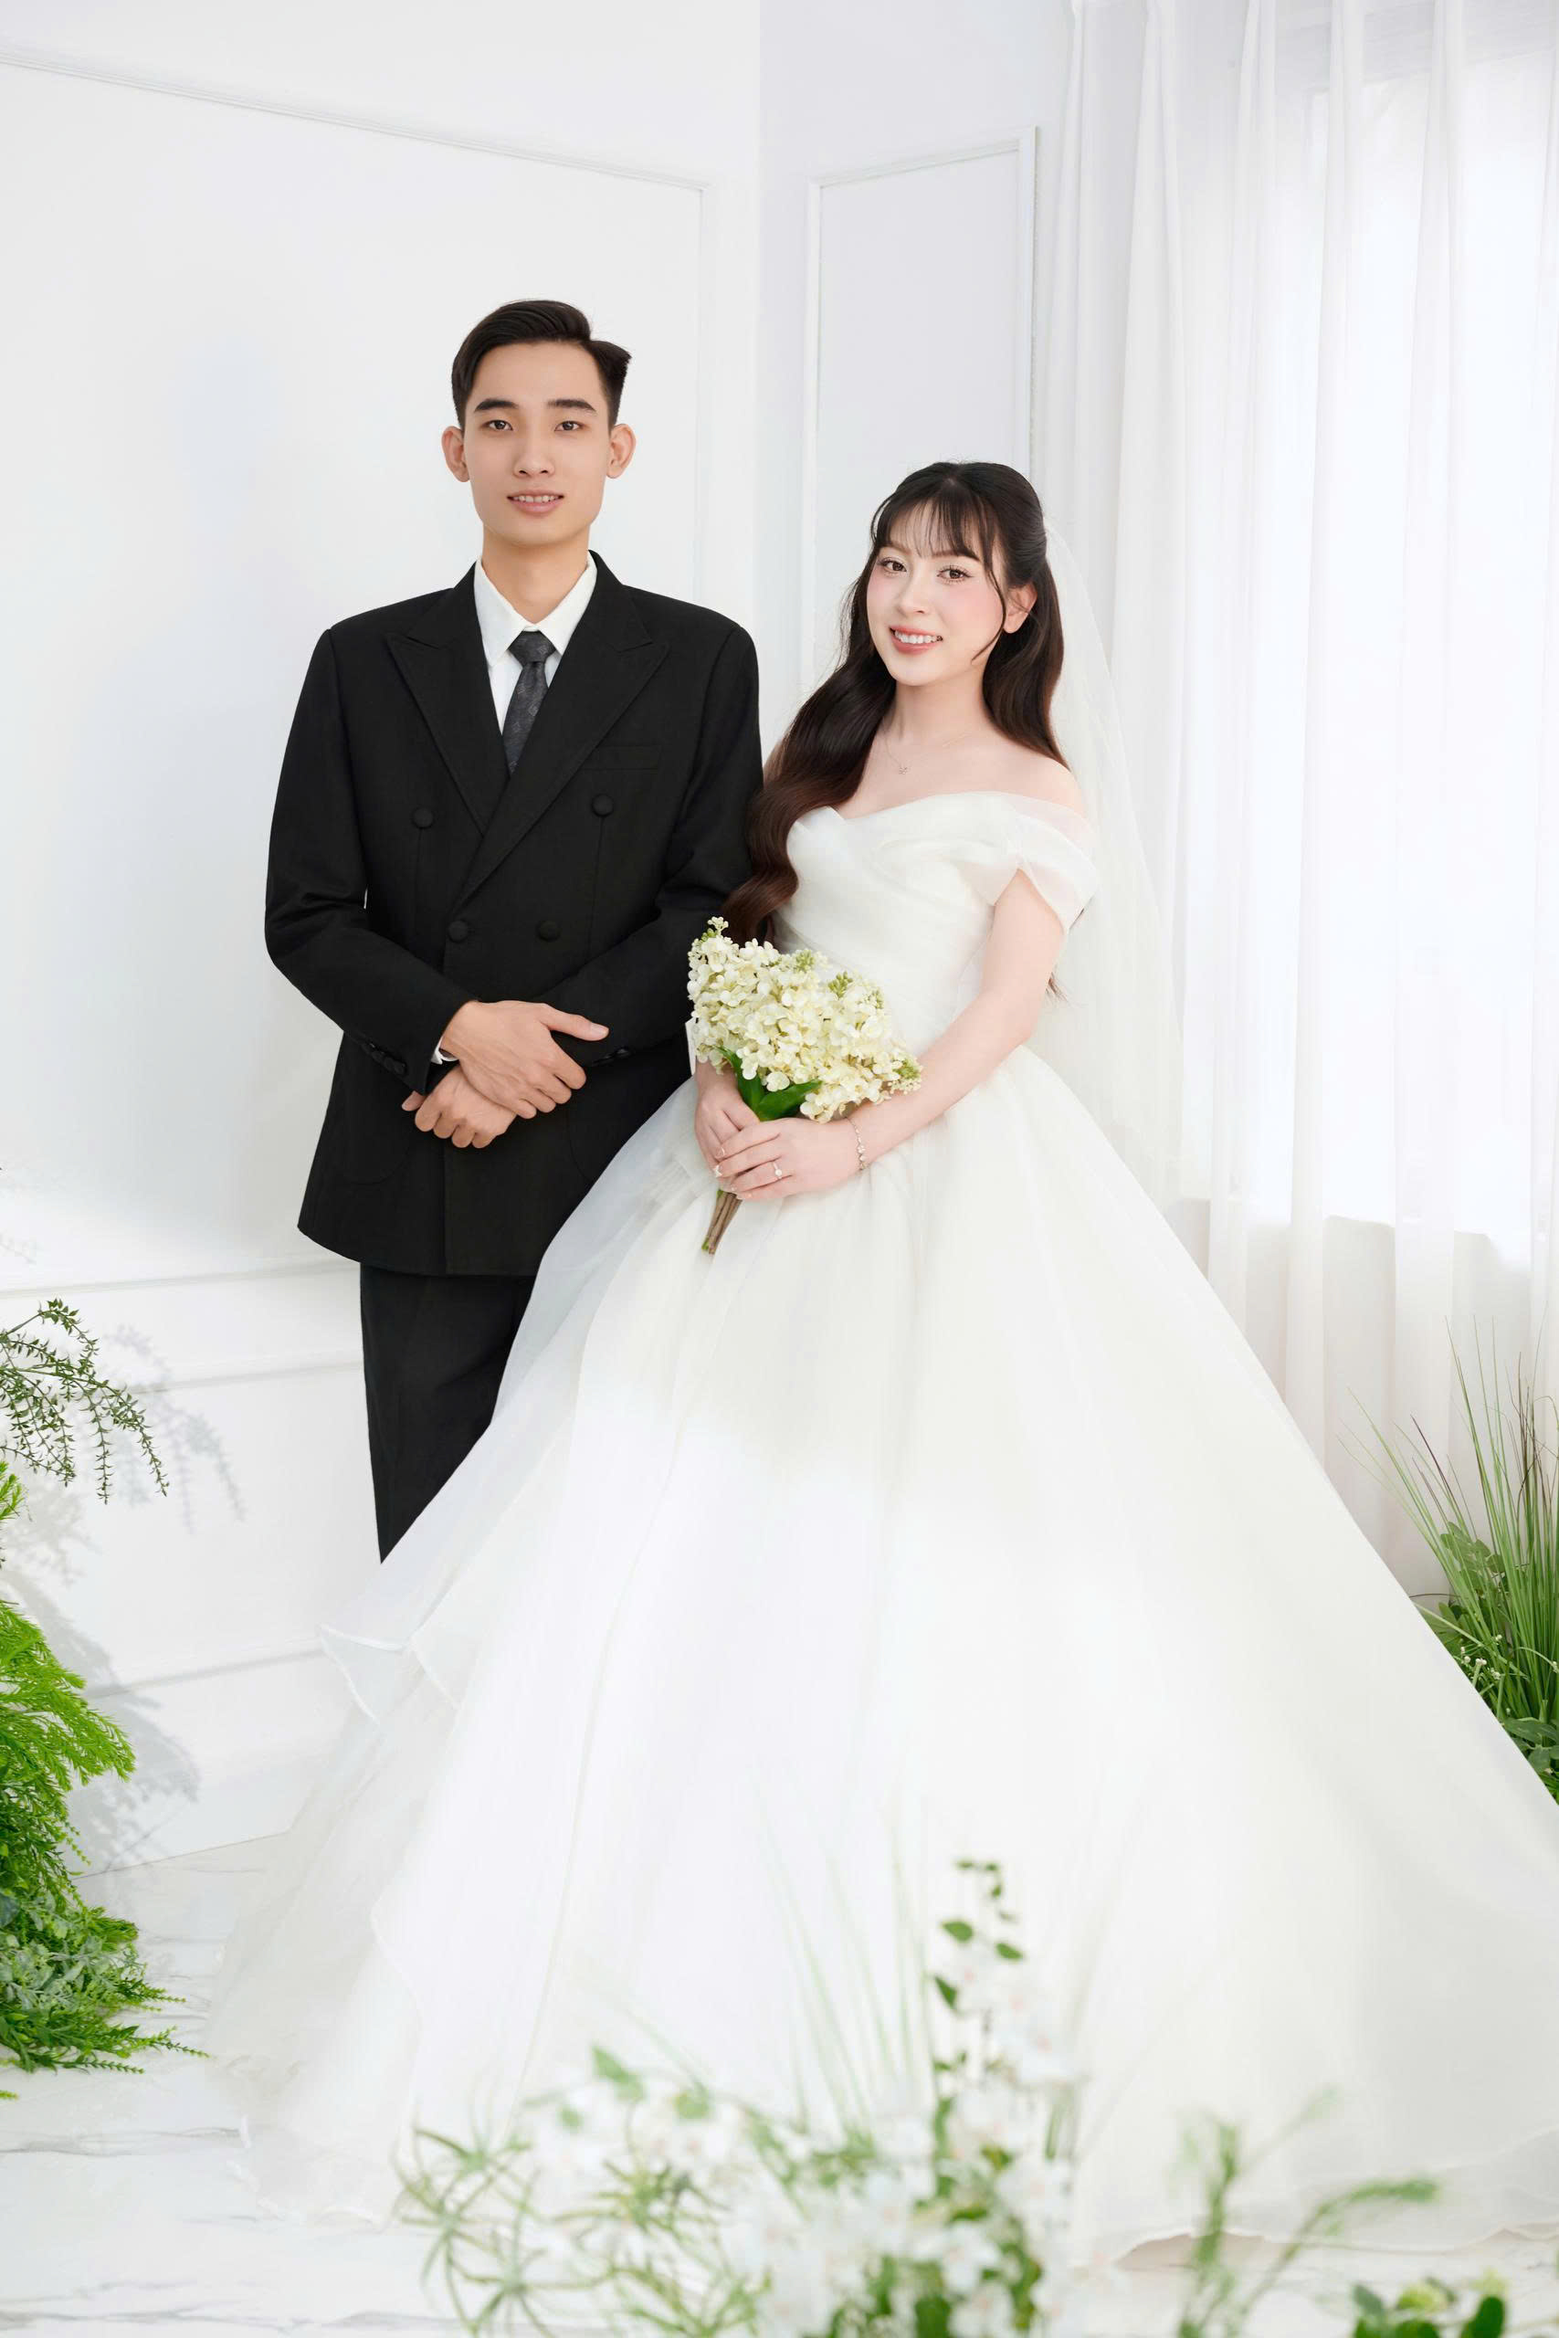
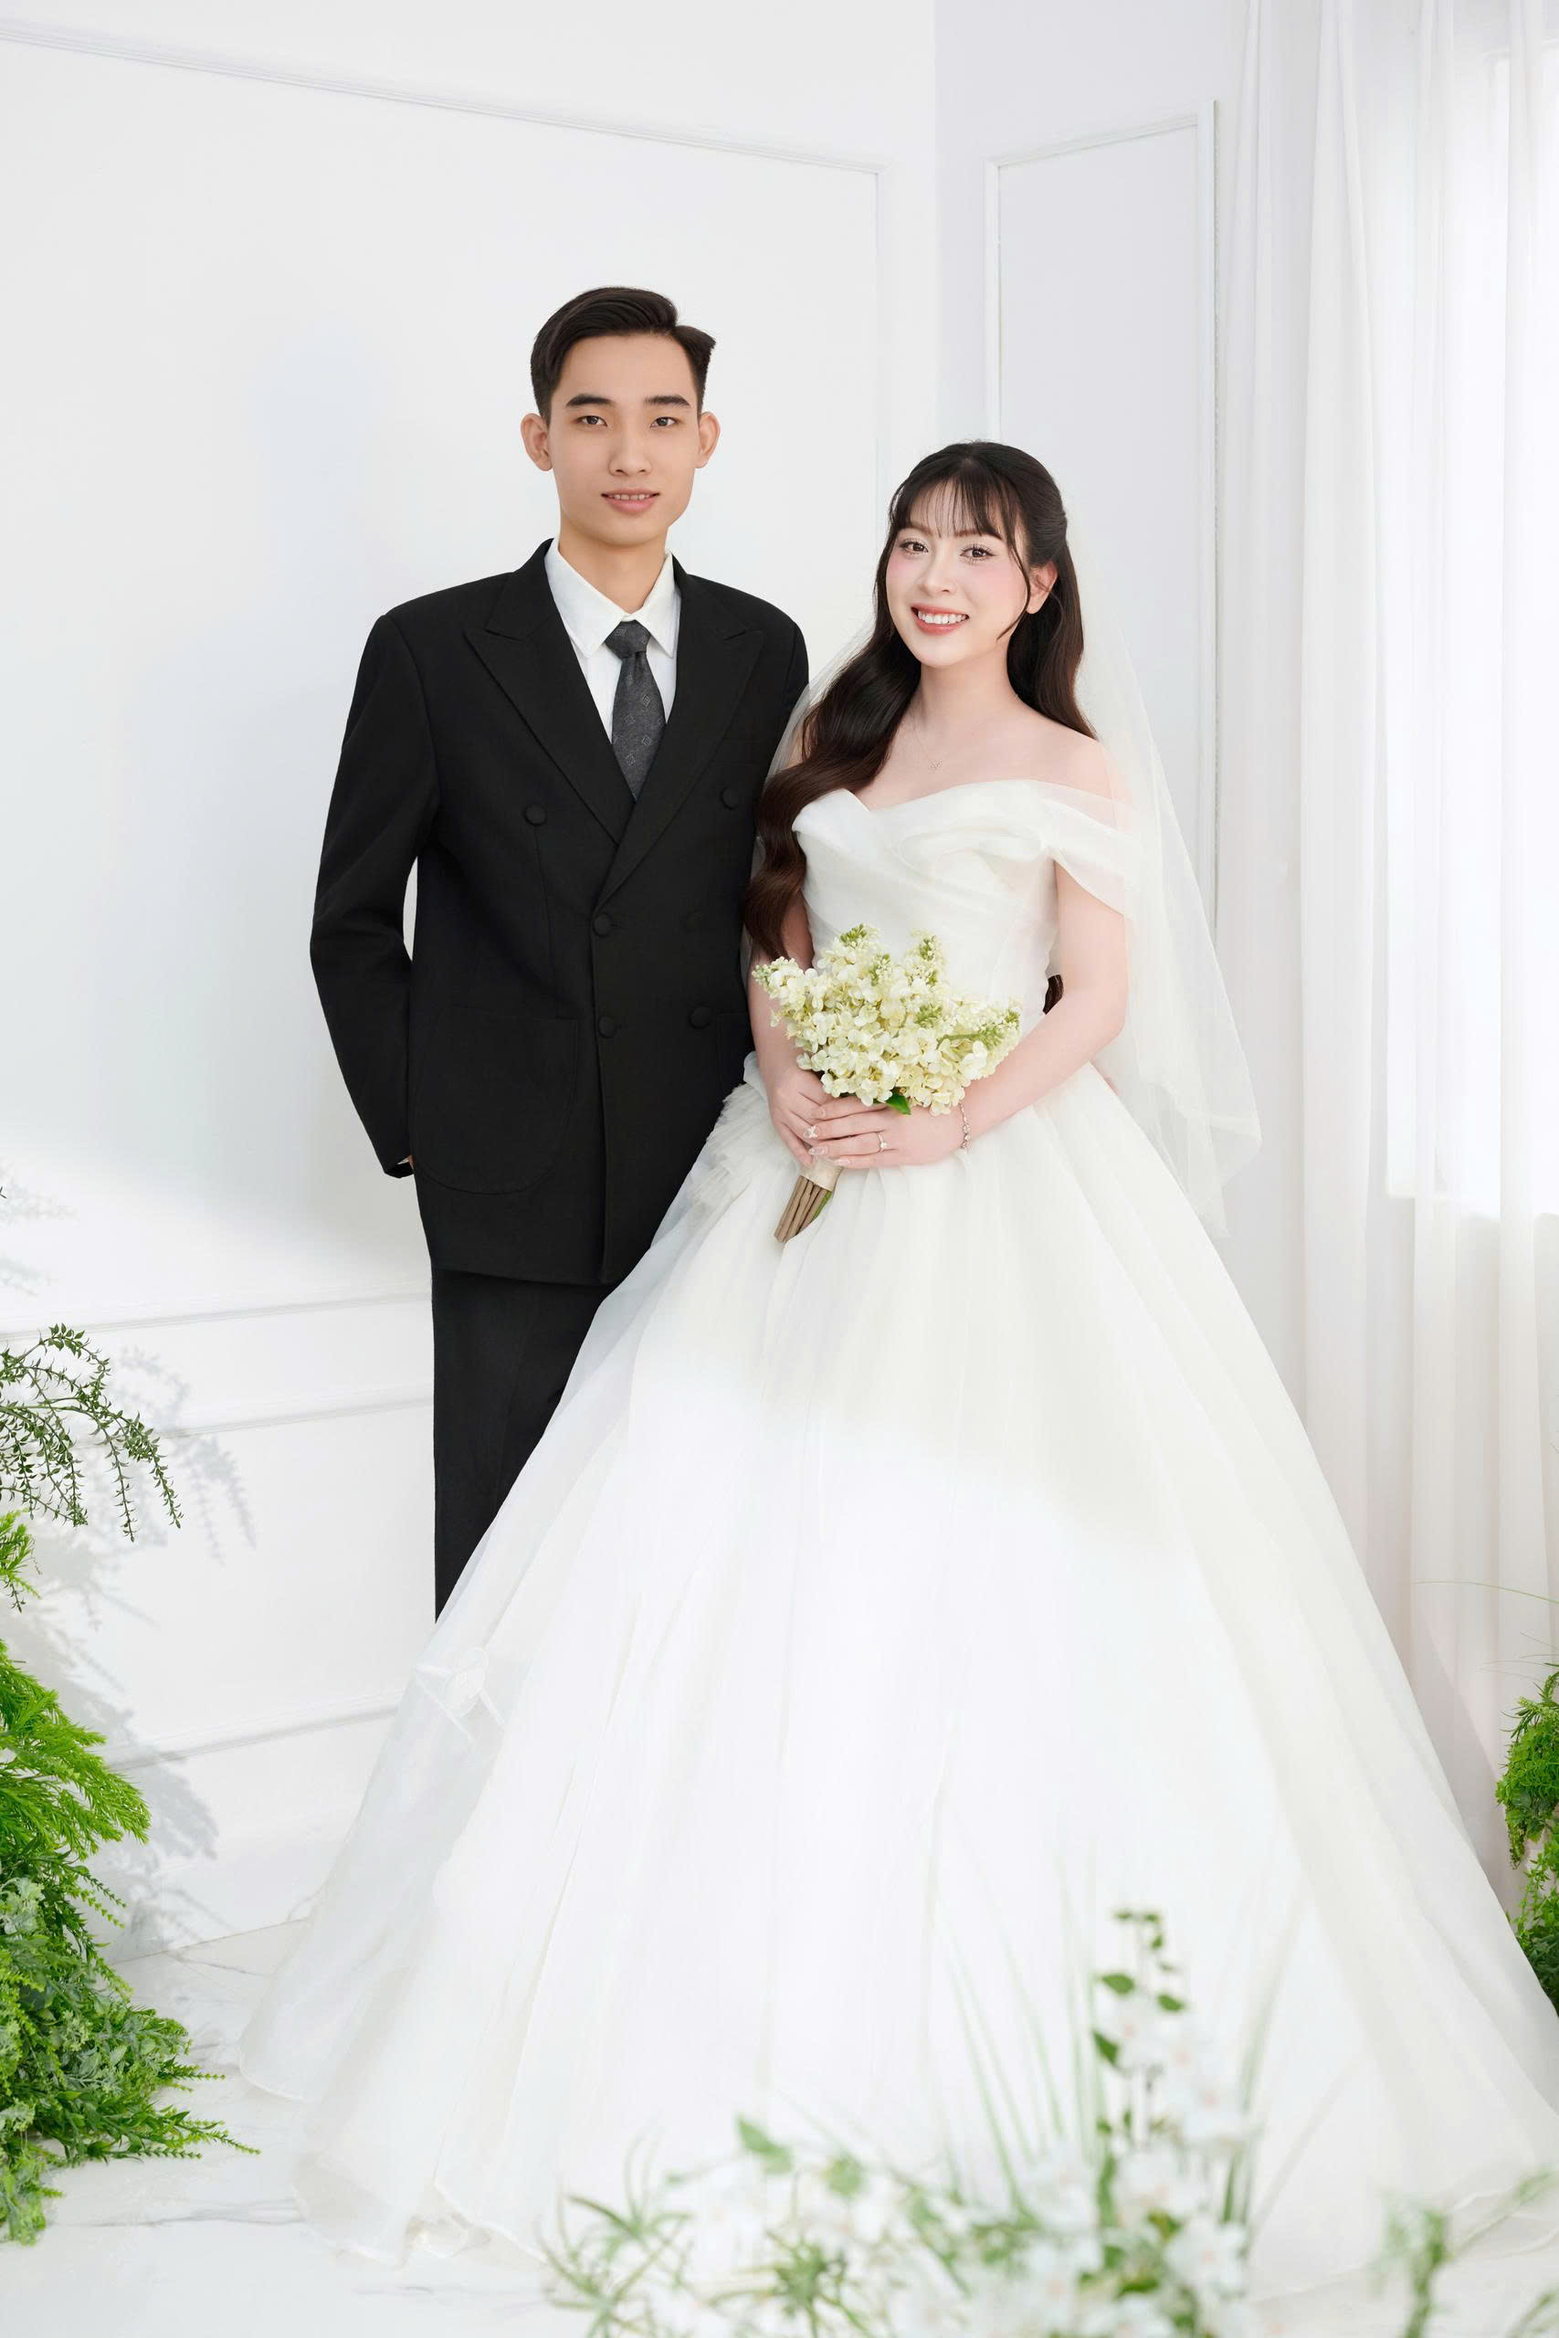
update

diff --git a/index.html b/index.html
@@ -2999,7 +2999,7 @@
         #HEADLINE311>.ladi-headline,
         #HEADLINE312>.ladi-headline,
         #HEADLINE313>.ladi-headline {
-            font-size: 15px;
+            font-size: 13px;
         }
 
         #IMAGE30.ladi-animation>.ladi-image {
@@ -10024,7 +10024,7 @@ var message="NoRightClicking"; function defeatIE() {if (document.all) {(message)
                         <div id="GROUP16" class='ladi-element'>
                             <div class='ladi-group'>
                                 <div id="HEADLINE24" class='ladi-element'>
-                                    <h3 class='ladi-headline ladi-transition'>Làm Lễ<br><span
+                                    <h3 class='ladi-headline ladi-transition'>Khai Tiệc<br><span
                                             style="font-weight: normal;">17:00</span><br></h3>
                                 </div>
                                 <div id="BOX14" class='ladi-element'>
